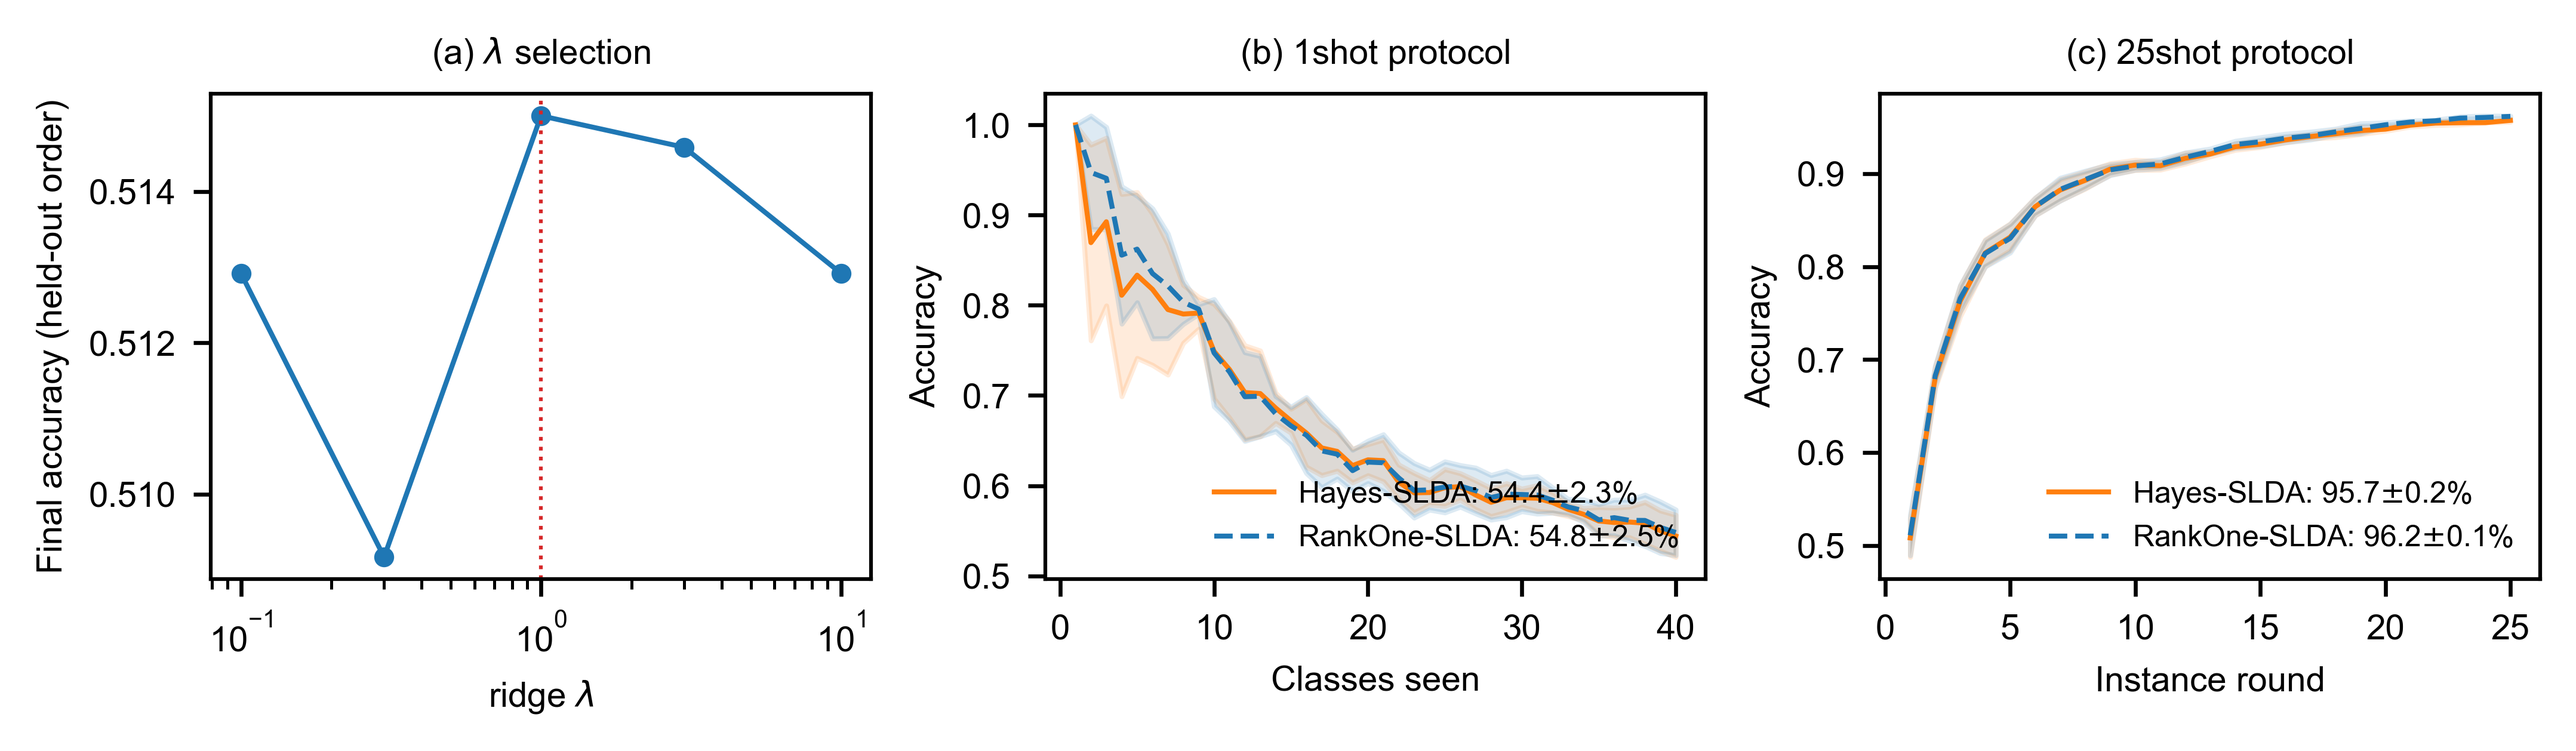
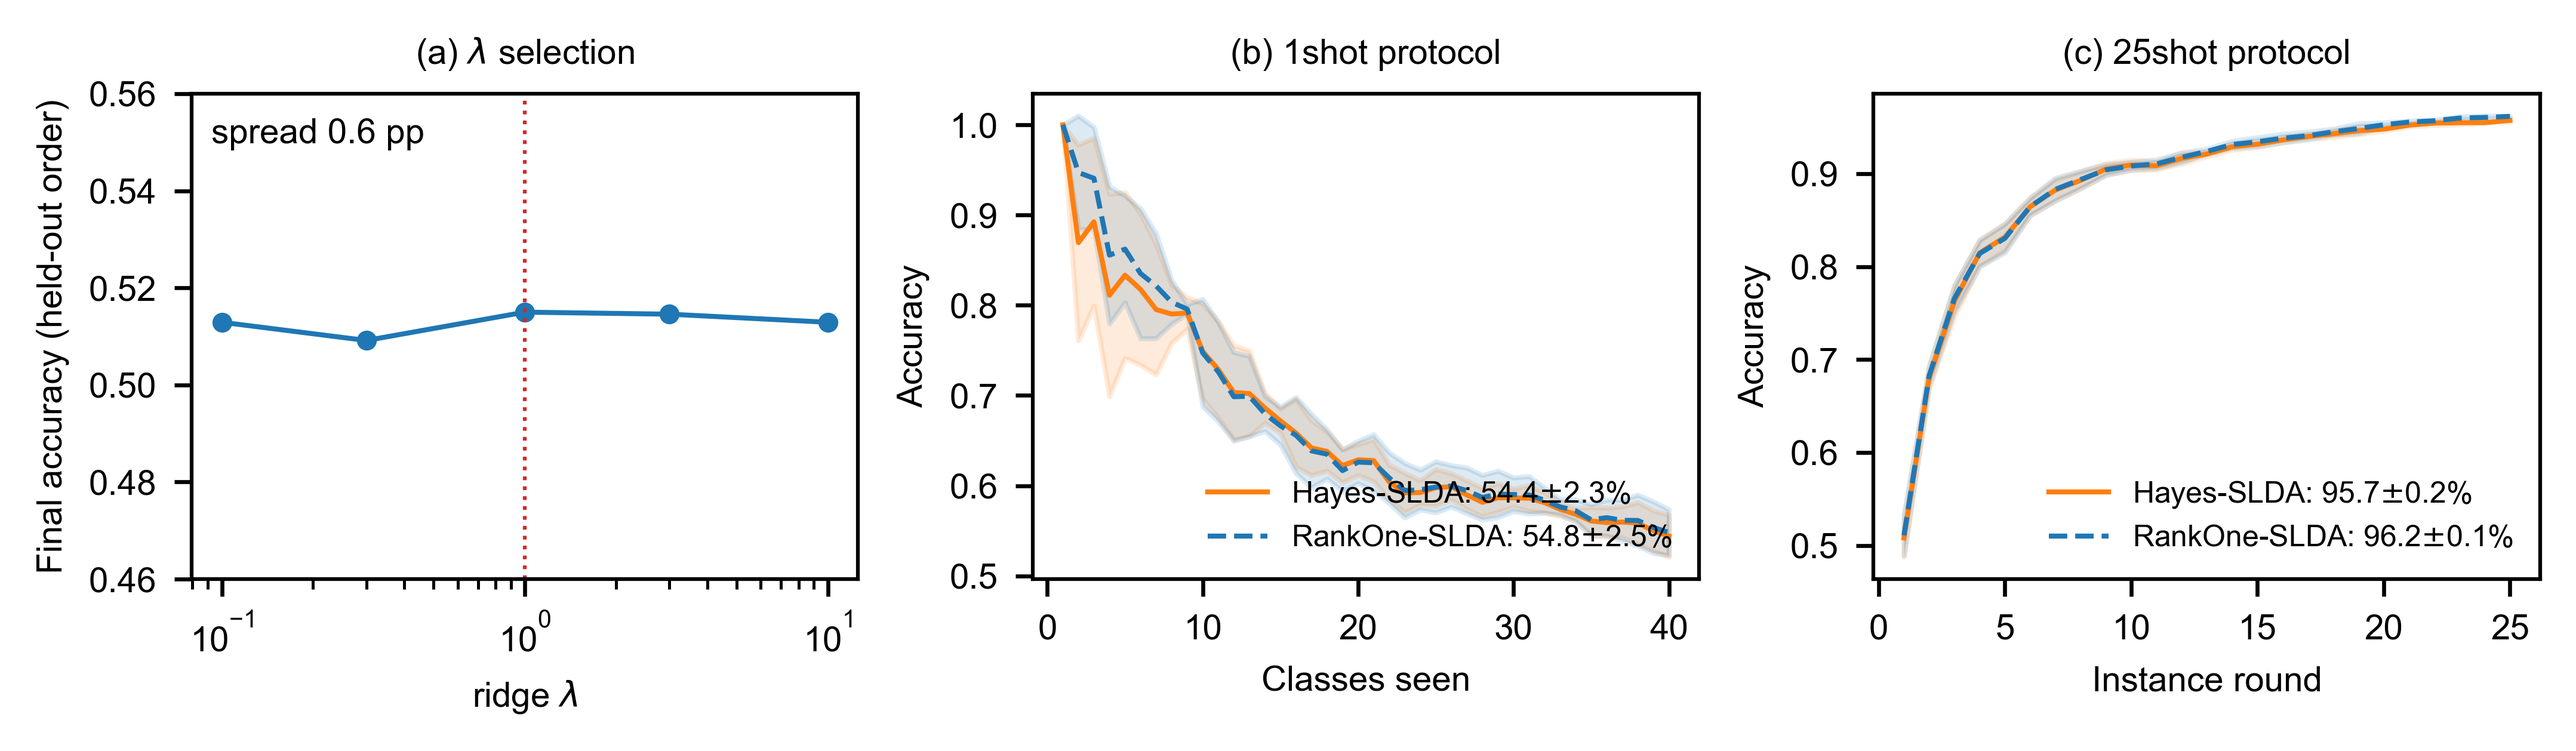
Equivalence panel: fixed y-axis for the lambda sweep, add --replot
Panel (a) auto-scaled its y-axis to the 0.6 pp spread of the lambda
sweep, which read as a trend. Draw it on a fixed 10-pp window with the
spread annotated. The panel code moves into draw_panel(), and --replot
redraws it from the saved equivalence.npz without rerunning the streams.

diff --git a/experiments/slda_regularization_equivalence.py b/experiments/slda_regularization_equivalence.py
@@ -32,6 +32,7 @@ Outputs saved to experiments/results/slda_regularization_equivalence/:
 Usage (from repo root or experiments/):
   python experiments/slda_regularization_equivalence.py
   python experiments/slda_regularization_equivalence.py --extra_lambdas 0.01 0.03 30 100
+  python experiments/slda_regularization_equivalence.py --replot   # panel only, from saved results
 """
 
 import argparse
@@ -193,6 +194,67 @@ def run_25shot(clf, X_tr, y_tr, checkpoints, X_test, y_test):
     return np.array(accs)
 
 
+
+# ── Supplementary panel ───────────────────────────────────────────────────────
+
+def draw_panel(lams, accs_, best_lambda, curves, protocols, models, images_dir):
+    """Panel (a): lambda sweep on the held-out order; (b), (c): accuracy
+    trajectories of both parameterizations under the paper protocols."""
+    n_panels = 1 + len(protocols)
+    fig, axes = plt.subplots(1, n_panels, figsize=(2.4 * n_panels, 2.2))
+    axes = np.atleast_1d(axes)
+
+    ax = axes[0]
+    ax.semilogx(lams, accs_, "o-", color="tab:blue", markersize=3)
+    ax.axvline(best_lambda, color="tab:red", linestyle=":", linewidth=0.75)
+    # Fixed 10-pp window: the sweep spans ~0.2 pp, and an auto-scaled axis
+    # would inflate that into an apparent trend.
+    centre = round(float(np.mean(accs_)), 2)
+    ax.set_ylim(centre - 0.05, centre + 0.05)
+    spread_pp = (max(accs_) - min(accs_)) * 100
+    ax.text(0.03, 0.95, f"spread {spread_pp:.1f} pp", transform=ax.transAxes,
+            ha="left", va="top")
+    ax.set_xlabel(r"ridge $\lambda$")
+    ax.set_ylabel("Final accuracy (held-out order)")
+    ax.set_title("(a) $\\lambda$ selection")
+
+    for k, protocol in enumerate(protocols):
+        ax = axes[1 + k]
+        n_ck = curves[(protocol, models[0])].shape[0]
+        t = np.arange(1, n_ck + 1)
+        for m, color, ls in zip(models, ["tab:orange", "tab:blue"],
+                                ["-", "--"]):
+            mean = curves[(protocol, m)].mean(axis=1)
+            std = curves[(protocol, m)].std(axis=1)
+            ax.plot(t, mean, ls, color=color, label=f"{m}: "
+                    f"{mean[-1]*100:.1f}$\\pm${std[-1]*100:.1f}%")
+            ax.fill_between(t, mean - std, mean + std, color=color, alpha=0.15)
+        ax.set_xlabel("Classes seen" if protocol == "1shot"
+                      else "Instance round")
+        ax.set_ylabel("Accuracy")
+        ax.set_title(f"({chr(98 + k)}) {protocol} protocol")
+        ax.legend(frameon=False, loc="lower right")
+
+    plt.tight_layout()
+    for ext in (("pdf", "png") if SAVE_PDF else ("png",)):
+        for out_dir in (RESULTS_DIR, images_dir):
+            plt.savefig(out_dir / f"ea_equivalence_panel.{ext}",
+                        format=ext, bbox_inches="tight")
+    plt.close()
+    print(f"Panel saved to {images_dir}/ea_equivalence_panel.png")
+
+
+def replot(images_dir):
+    """Redraw the panel from equivalence.npz without rerunning the streams."""
+    d = np.load(RESULTS_DIR / "equivalence.npz")
+    models = ["Hayes-SLDA", "RankOne-SLDA"]
+    protocols = [p for p in ("1shot", "25shot") if f"{p}_hayes" in d.files]
+    curves = {(p, m): d[f"{p}_{m.split('-')[0].lower()}"]
+              for p in protocols for m in models}
+    draw_panel(list(d["lambda_grid"]), list(d["sweep_acc"]),
+               float(d["best_lambda"]), curves, protocols, models, images_dir)
+
+
 # ── Main ──────────────────────────────────────────────────────────────────────
 
 def main():
@@ -202,12 +264,18 @@ def main():
                         help="Additional lambda values to widen the sweep")
     parser.add_argument("--skip_25shot", action="store_true",
                         help="Debug: run the 1-shot protocol only")
+    parser.add_argument("--replot", action="store_true",
+                        help="Redraw the panel from saved equivalence.npz")
     args = parser.parse_args()
 
     plt.rcParams.update(PLOT_CONFIG)
     RESULTS_DIR.mkdir(parents=True, exist_ok=True)
     images_dir = _REPO / "images"
     images_dir.mkdir(parents=True, exist_ok=True)
+
+    if args.replot:
+        replot(images_dir)
+        return
 
     np.random.seed(GLOBAL_SEED)
     random.seed(GLOBAL_SEED)
@@ -321,45 +389,10 @@ def main():
         w.writerows(rows)
 
     # ── Supplementary panel ──────────────────────────────────────────────────
-    n_panels = 1 + len(protocols)
-    fig, axes = plt.subplots(1, n_panels, figsize=(2.4 * n_panels, 2.2))
-    axes = np.atleast_1d(axes)
-
-    ax = axes[0]
-    lams = [r["lambda"] for r in sweep]
-    accs_ = [r["final_acc"] for r in sweep]
-    ax.semilogx(lams, accs_, "o-", color="tab:blue", markersize=3)
-    ax.axvline(best_lambda, color="tab:red", linestyle=":", linewidth=0.75)
-    ax.set_xlabel(r"ridge $\lambda$")
-    ax.set_ylabel("Final accuracy (held-out order)")
-    ax.set_title("(a) $\\lambda$ selection")
-
-    for k, protocol in enumerate(protocols):
-        ax = axes[1 + k]
-        n_ck = curves[(protocol, models[0])].shape[0]
-        t = np.arange(1, n_ck + 1)
-        for m, color, ls in zip(models, ["tab:orange", "tab:blue"],
-                                ["-", "--"]):
-            mean = curves[(protocol, m)].mean(axis=1)
-            std = curves[(protocol, m)].std(axis=1)
-            ax.plot(t, mean, ls, color=color, label=f"{m}: "
-                    f"{mean[-1]*100:.1f}$\\pm${std[-1]*100:.1f}%")
-            ax.fill_between(t, mean - std, mean + std, color=color, alpha=0.15)
-        ax.set_xlabel("Classes seen" if protocol == "1shot"
-                      else "Instance round")
-        ax.set_ylabel("Accuracy")
-        ax.set_title(f"({chr(98 + k)}) {protocol} protocol")
-        ax.legend(frameon=False, loc="lower right")
-
-    plt.tight_layout()
-    for ext in (("pdf", "png") if SAVE_PDF else ("png",)):
-        for out_dir in (RESULTS_DIR, images_dir):
-            plt.savefig(out_dir / f"ea_equivalence_panel.{ext}",
-                        format=ext, bbox_inches="tight")
-    plt.close()
+    draw_panel([r["lambda"] for r in sweep], [r["final_acc"] for r in sweep],
+               best_lambda, curves, protocols, models, images_dir)
 
     print(f"\nResults saved to {RESULTS_DIR}/")
-    print(f"Panel saved to {images_dir}/ea_equivalence_panel.png")
 
 
 if __name__ == "__main__":
